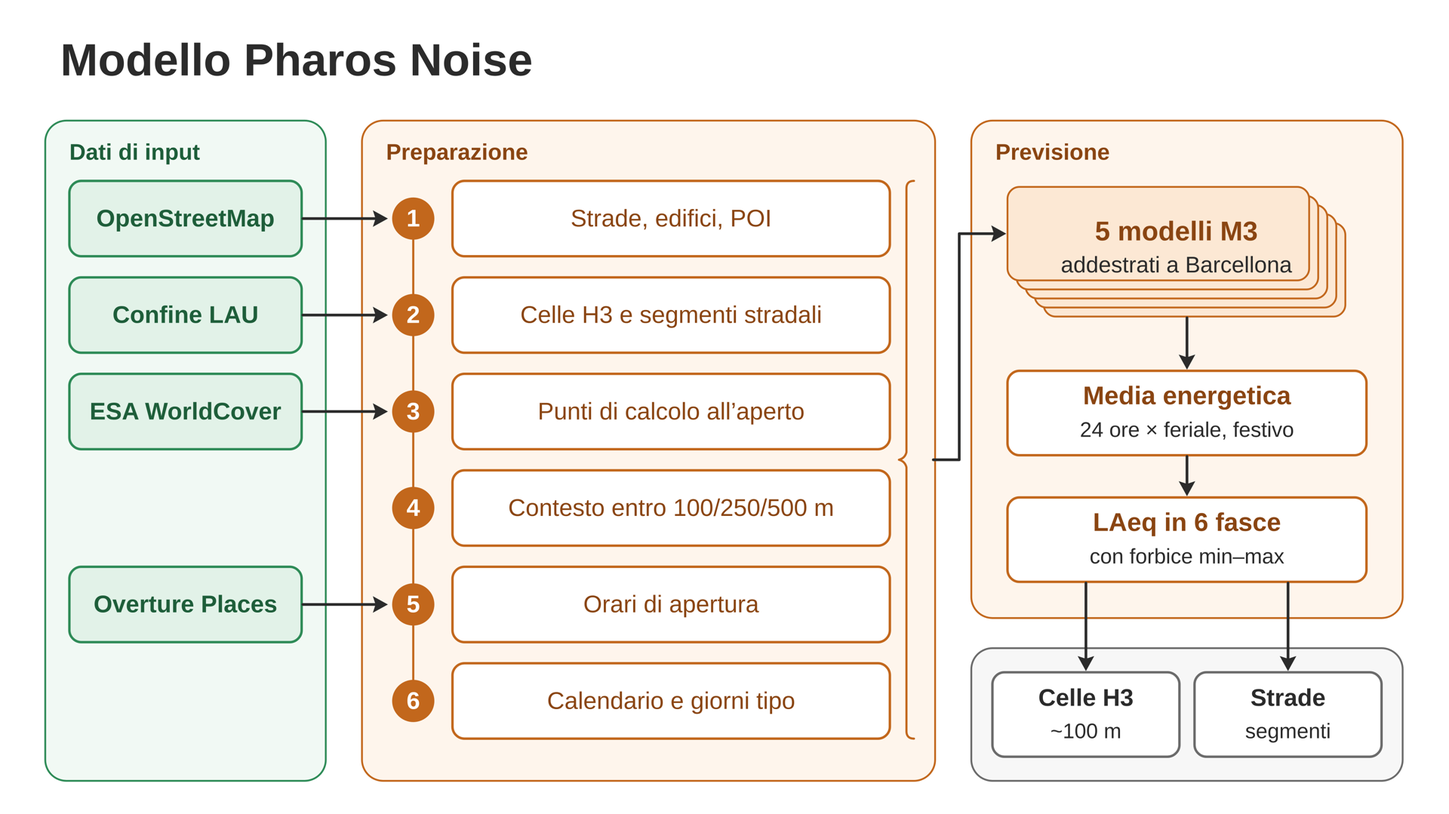
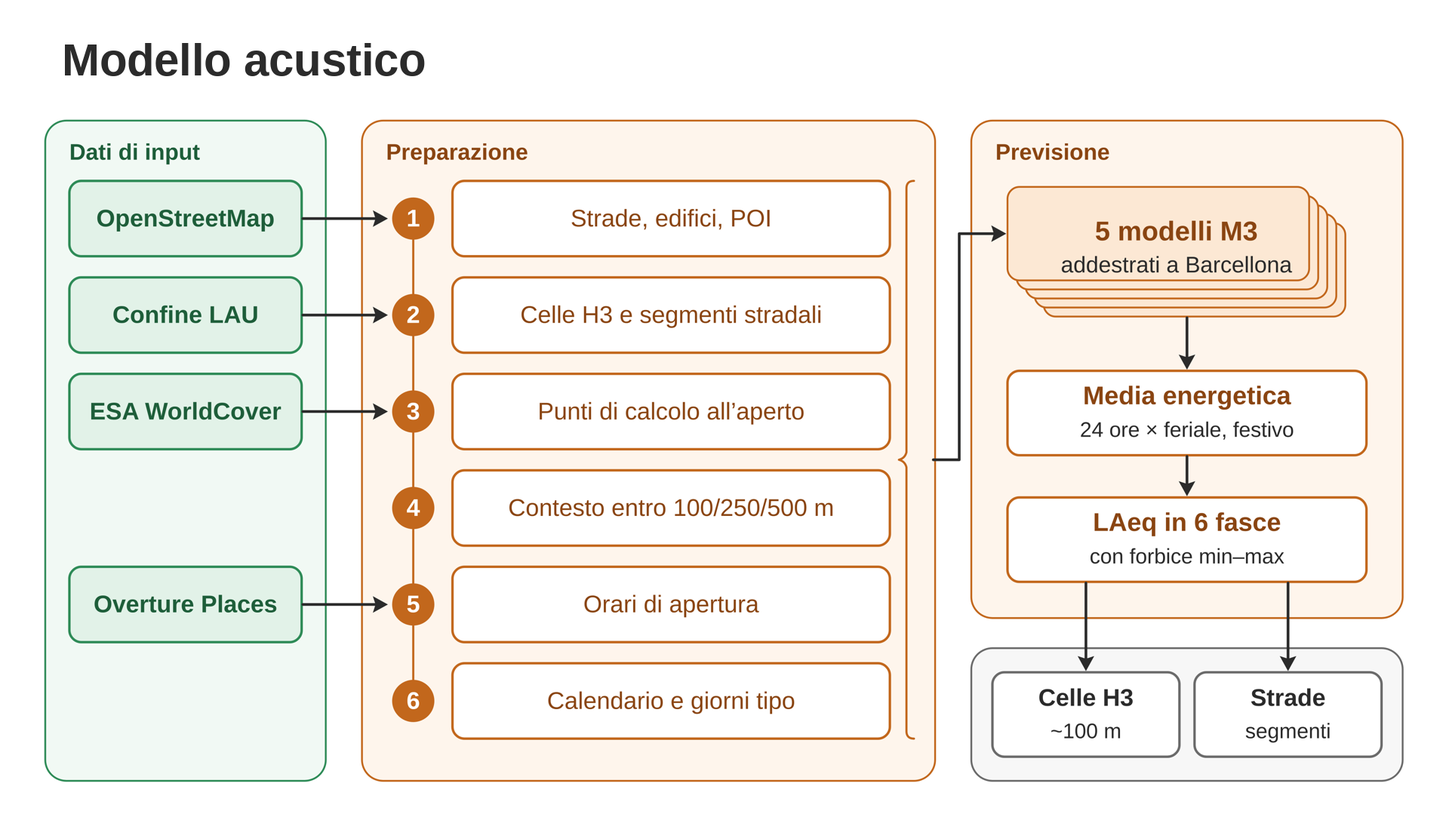
Modello senza nome pubblico proprio: «modello acustico di Sonar»
Nome del manifest «modello acustico di Sonar» / «Sonar acoustic model»;
nei testi «il modello». Piè di pagina delle tavole senza nome del modello,
LEGGIMI, AUTORI, registro e popolazione esposta riformulati. Il testo di
accuratezza della tavola della popolazione esposta si sceglie dall'id del
modello. Etichette aggiornate nelle immagini di docs/img; documenti, note
di rilascio e test allineati; HANDOFF §16.

Changed region(s): [[0.0312, 0.0306, 0.375, 0.0918]]

diff --git a/sonar_app/export/exposure.py b/sonar_app/export/exposure.py
@@ -18,7 +18,7 @@ FIELDS = {'lden': 'lden_ind', 'lnight': 'lnight_ind'}
 RES_FIELD = 'residenti'
 
 TXT = {
-    'it': {'title': '{city} — popolazione esposta al rumore', 'subtitle': 'Residenti per classe di Lden e Lnight · modello {model} · popolazione GHS-POP 2020',
+    'it': {'title': '{city} — popolazione esposta al rumore', 'subtitle': 'Residenti per classe di Lden e Lnight · {model} · popolazione GHS-POP 2020',
            'total': 'Residenti', 'who_lden': 'Lden ≥ 53 dB', 'who_lnight': 'Lnight ≥ 45 dB', 'who': 'soglie OMS 2018',
            'end_lden': 'Lden ≥ 55 dB', 'end_lnight': 'Lnight ≥ 50 dB', 'end': 'soglie di mappatura della Direttiva 2002/49/CE',
            'high_lden': 'Lden ≥ 65 dB', 'high_lnight': 'Lnight ≥ 55 dB', 'high': 'esposizione elevata',
@@ -32,16 +32,16 @@ TXT = {
            'reference': 'Riferimento', 'cell_id': 'Cella H3', 'city_label': 'Città', 'model_label': 'Modello', 'pop_label': 'Popolazione',
            'tile_modal': 'Lden più frequente', 'tile_caption': 'Quote sul totale dei residenti · classi della Direttiva 2002/49/CE, allegato VI',
            'read_title': 'Un modello verificato sulle misure',
-           'validity': ('Pharos Noise stima il livello sonoro ogni 100 m: su 30 postazioni di Barcellona mai usate per l’addestramento '
+           'validity': ('Il modello stima il livello sonoro ogni 100 m: su 30 postazioni di Barcellona mai usate per l’addestramento '
                         'l’errore medio è di 3,6 dB sulle singole ore, con una correlazione di 0,88 con le misure. Tavola, foglio di calcolo '
                         'e layer GIS mostrano quanti residenti vivono in ogni classe di esposizione e dove: la base per decidere dove misurare, '
                         'dove intervenire per primi e quali scenari confrontare.'),
-           'validity_generic': ('Livelli sonori stimati dal modello {model} su celle di circa 100 m. Tavola, foglio di calcolo e layer GIS mostrano '
+           'validity_generic': ('Livelli sonori stimati dal modello «{model}» su celle di circa 100 m. Tavola, foglio di calcolo e layer GIS mostrano '
                                 'quanti residenti vivono in ogni classe di esposizione e dove: la base per decidere dove misurare, dove intervenire '
                                 'per primi e quali scenari confrontare.'),
            'of_residents': 'dei residenti',
            'total_label': 'Residenti nel comune', 'unit': 'residenti'},
-    'en': {'title': '{city} — population exposed to noise', 'subtitle': 'Residents by Lden and Lnight class · {model} model · GHS-POP 2020 population',
+    'en': {'title': '{city} — population exposed to noise', 'subtitle': 'Residents by Lden and Lnight class · {model} · GHS-POP 2020 population',
            'total': 'Residents', 'who_lden': 'Lden ≥ 53 dB', 'who_lnight': 'Lnight ≥ 45 dB', 'who': 'WHO 2018 thresholds',
            'end_lden': 'Lden ≥ 55 dB', 'end_lnight': 'Lnight ≥ 50 dB', 'end': 'Directive 2002/49/EC mapping thresholds',
            'high_lden': 'Lden ≥ 65 dB', 'high_lnight': 'Lnight ≥ 55 dB', 'high': 'high exposure',
@@ -55,11 +55,11 @@ TXT = {
            'reference': 'Reference', 'cell_id': 'H3 cell', 'city_label': 'City', 'model_label': 'Model', 'pop_label': 'Population',
            'tile_modal': 'Most common Lden', 'tile_caption': 'Shares of all residents · classes of Directive 2002/49/EC, Annex VI',
            'read_title': 'A model checked against measurements',
-           'validity': ('Pharos Noise estimates the sound level every 100 m: at 30 Barcelona stations never used in training its mean error '
+           'validity': ('The model estimates the sound level every 100 m: at 30 Barcelona stations never used in training its mean error '
                         'is 3.6 dB on individual hours, with a correlation of 0.88 with the measurements. The sheet, the spreadsheet and the '
                         'GIS layers show how many residents live in each exposure class and where: the basis for deciding where to measure, '
                         'where to act first and which scenarios to compare.'),
-           'validity_generic': ('Sound levels estimated by the {model} model on cells of about 100 m. The sheet, the spreadsheet and the GIS layers '
+           'validity_generic': ('Sound levels estimated by the model “{model}” on cells of about 100 m. The sheet, the spreadsheet and the GIS layers '
                                 'show how many residents live in each exposure class and where: the basis for deciding where to measure, where '
                                 'to act first and which scenarios to compare.'),
            'of_residents': 'of residents',
@@ -249,6 +249,6 @@ def write_xlsx(path: Path, result: dict, city: str, model_name: str, language: s
 
 # ---------------------------------------------------------------- tavola A4
 
-def render_png(path: Path, result: dict, city: str, model_name: str, language: str) -> Path:
+def render_png(path: Path, result: dict, city: str, model_name: str, language: str, model_id: str | None = None) -> Path:
     from .exposure_sheet import render
-    return render(path, result, city, model_name, language)
+    return render(path, result, city, model_name, language, model_id=model_id)

diff --git a/tests/test_exposure.py b/tests/test_exposure.py
@@ -51,14 +51,16 @@ def test_residents_are_conserved_and_written(tmp_path):
             assert sum(v for _, v in day[key]) == pytest.approx(expected, rel=1e-7)
         assert day['lden'][-1][1] > 0                                    # la cella senza stima ha residenti
 
-    xlsx = exposure.write_xlsx(tmp_path / 'esposti.xlsx', result, 'Prova', 'Pharos Noise', 'it')
+    xlsx = exposure.write_xlsx(tmp_path / 'esposti.xlsx', result, 'Prova', 'modello acustico di Sonar', 'it')
     wb = openpyxl.load_workbook(xlsx)
     cells = wb['Celle H3']
     assert cells['A2'].value == frame['unit_id'].iloc[0]                # identificativo H3, non il numero di riga
     assert sum(r[1].value for r in cells.iter_rows(min_row=2)) == pytest.approx(expected, abs=len(frame) * 0.005)
 
     for language in ('it', 'en'):
-        png = exposure.render_png(tmp_path / f'esposti_{language}.png', result, 'Prova', 'Pharos Noise', language)
+        name = {'it': 'modello acustico di Sonar', 'en': 'Sonar acoustic model'}[language]      # come pick(manifest['name'])
+        png = exposure.render_png(tmp_path / f'esposti_{language}.png', result, 'Prova', name, language,
+                                  model_id='m3_barcellona')
         assert png.stat().st_size > 50_000
 
 
@@ -66,3 +68,23 @@ def test_share_formatting():
     assert exposure._pct(0, 100, 'it') == '0,0%'
     assert exposure._pct(1, 10_000, 'it') == '< 0,1%'
     assert exposure._pct(1, 8, 'en') == '12.5%'
+
+
+def test_accuracy_text_depends_on_model_id_not_on_name(tmp_path, monkeypatch):
+    """I numeri di accuratezza compaiono solo per il modello a cui si riferiscono (id del manifest), qualunque sia il nome."""
+    from matplotlib.figure import Figure
+    raster, boundary, frame, _ = _case(tmp_path)
+    result = exposure.compute([('Giorno feriale scolastico', 'feriale', frame)], raster, boundary)
+    seen = []
+    original = Figure.savefig
+    def savefig(self, *args, **kwargs):
+        seen.append([t.get_text() for ax in self.axes for t in ax.texts])
+        return original(self, *args, **kwargs)
+    monkeypatch.setattr(Figure, 'savefig', savefig)
+    exposure.render_png(tmp_path / 'a.png', result, 'Prova', 'modello acustico di Sonar', 'it', model_id='m3_barcellona')
+    exposure.render_png(tmp_path / 'b.png', result, 'Prova', 'modello acustico di Sonar', 'it', model_id='altro')
+    exposure.render_png(tmp_path / 'c.png', result, 'Prova', 'Altro modello', 'en')
+    joined = [' '.join(texts) for texts in seen]
+    assert '3,6 dB' in joined[0] and 'Il modello stima' in joined[0]
+    assert '3,6 dB' not in joined[1] and '3.6 dB' not in joined[2]
+    assert all('Sonar' in texts and not any(t.startswith('Sonar ·') for t in texts) for texts in seen)   # piè di pagina: solo «Sonar»

diff --git a/sonar_app/export/docs.py b/sonar_app/export/docs.py
@@ -24,7 +24,7 @@ def software_license_text() -> str:
 
 README = {
     'it': """Sonar {version} — {city}
-Generato il {when} con il modello «{model}» (versione {model_version}).
+Generato il {when} · {model_title} {model_version}
 
 COSA C'È IN QUESTA CARTELLA
 - {results}/{gpkg}: GeoPackage con lo stile già applicato (QGIS lo carica in automatico)
@@ -49,7 +49,7 @@ ATTRIBUZIONI
 {boundary_attribution}
 """,
     'en': """Sonar {version} — {city}
-Generated on {when} with the model “{model}” (version {model_version}).
+Generated on {when} · {model_title} {model_version}
 
 WHAT IS IN THIS FOLDER
 - {results}/{gpkg}: GeoPackage with the style already applied (QGIS loads it automatically)
@@ -99,13 +99,13 @@ DATA AND RESULTS LICENSES
 AUTHORS_TEXT = {
     'it': """Sonar {version}
 Software: {software_authors}
-Modello «{model}» {model_version}: {model_authors}
+{model_title} {model_version}: {model_authors}
 Spiegazione del modello: {doc_url}
 Repository: {repo_url}
 """,
     'en': """Sonar {version}
 Software: {software_authors}
-Model “{model}” {model_version}: {model_authors}
+{model_title} {model_version}: {model_authors}
 Model explanation: {doc_url}
 Repository: {repo_url}
 """,
@@ -135,6 +135,11 @@ INDICATORS_TEXT = {
 }
 
 
+def _capital(text: str) -> str:
+    """Iniziale maiuscola per l'inizio di riga («modello acustico di Sonar» → «Modello acustico di Sonar»)."""
+    return text[:1].upper() + text[1:]
+
+
 def write_documents(root: Path, language: str, model, city, notes_extra: str = '') -> list[Path]:
     from .health import config as indicators_config
     manifest = model.manifest
@@ -142,7 +147,7 @@ def write_documents(root: Path, language: str, model, city, notes_extra: str = '
     if has_indicators:
         notes_extra = INDICATORS_TEXT[language] + notes_extra
     values = dict(version=__version__, city=city.name, when=datetime.now().strftime('%d/%m/%Y %H:%M' if language == 'it' else '%Y-%m-%d %H:%M'),
-                  model=pick(manifest['name'], language), model_version=model.version, results=folder('results', language),
+                  model=pick(manifest['name'], language), model_title=_capital(pick(manifest['name'], language)), model_version=model.version, results=folder('results', language),
                   gpkg=folder('gpkg', language), gdb=folder('gdb', language), styles=folder('arcgis_styles', language), maps=folder('maps', language),
                   inputs=folder('inputs', language), boundary=folder('boundary', language), lau_year=city.lau_year, lau_id=city.gisco_id or city.lau_id,
                   sources_file=filename('sources', language), license_file=filename('license', language), authors_file=filename('authors', language),

diff --git a/sonar_app/export/maps.py b/sonar_app/export/maps.py
@@ -6,9 +6,9 @@ from pathlib import Path
 
 from ..i18n import pick
 
-FOOTER = {
-    'it': 'Sonar · {model} · © OpenStreetMap contributors · © Overture Maps · ESA WorldCover · confini © EuroGeographics',
-    'en': 'Sonar · {model} · © OpenStreetMap contributors · © Overture Maps · ESA WorldCover · boundaries © EuroGeographics',
+FOOTER = {   # il nome del modello non compare: il modello di Sonar non ha un nome pubblico proprio
+    'it': 'Sonar · © OpenStreetMap contributors · © Overture Maps · ESA WorldCover · confini © EuroGeographics',
+    'en': 'Sonar · © OpenStreetMap contributors · © Overture Maps · ESA WorldCover · boundaries © EuroGeographics',
 }
 MEDIAN = {'it': 'mediana {value:.1f} {unit}', 'en': 'median {value:.1f} {unit}'}
 NO_VALUES = {'it': 'nessuna stima', 'en': 'no estimate'}
@@ -89,7 +89,7 @@ def render(frame, boundary, fields: list[dict], style: dict, title: str, subtitl
     cax = fig.add_axes([0.3, 0.075, 0.4, 0.017])
     fig.colorbar(ScalarMappable(norm=norm, cmap=cmap), cax=cax, orientation='horizontal', extend='both', ticks=style['breaks'])
     cax.set_title(f'{pick(style.get("title"), language)} {unit}'.strip(), fontsize=10)
-    fig.text(0.5, 0.012, FOOTER[language].format(model=model_name), fontsize=7.5, color='#555555', ha='center')
+    fig.text(0.5, 0.012, FOOTER[language], fontsize=7.5, color='#555555', ha='center')
     fig.subplots_adjust(left=0.01, right=0.99, top=0.92, bottom=0.15, wspace=0.03, hspace=0.12)
     path.parent.mkdir(parents=True, exist_ok=True)
     fig.savefig(path, dpi=dpi, facecolor='white')
@@ -187,7 +187,7 @@ def render_indicators(layers: list[tuple[str, object]], boundary, indicator_styl
     fig.suptitle(title, fontsize=15, fontweight='bold', y=0.995)
     note = NOTE[language].format(indicators=names, scale=SCALE_NOTE['city' if shared is not None else indicator_styles[0].get('scale', 'city')][language])
     fig.text(0.5, 0.03, textwrap.fill(note, width=95 * cols if cols > 1 else 120), fontsize=8, color='#444444', ha='center', va='bottom')
-    fig.text(0.5, 0.01, FOOTER[language].format(model=model_name), fontsize=7.5, color='#555555', ha='center')
+    fig.text(0.5, 0.01, FOOTER[language], fontsize=7.5, color='#555555', ha='center')
     fig.subplots_adjust(left=0.01, right=0.99, top=0.92, bottom=0.16, wspace=0.03, hspace=0.18)
     path.parent.mkdir(parents=True, exist_ok=True)
     fig.savefig(path, dpi=dpi, facecolor='white')

diff --git a/sonar_app/export/exposure_sheet.py b/sonar_app/export/exposure_sheet.py
@@ -19,6 +19,7 @@ ACCENT, ACCENT_SOFT = '#1F4E79', '#dbe6f1'
 # classi: verde sotto la prima classe della Direttiva, poi dal giallo al bordeaux; grigio per «senza stima»
 CLASS_COLORS = ['#93c9ad', '#fee08b', '#fdae61', '#f46d43', '#d73027', '#a50026']
 NONE_COLOR = '#c4c7cc'
+VALIDATED_MODELS = {'m3_barcellona'}   # id dei modelli a cui si riferiscono i numeri di accuratezza del testo 'validity'
 ROW = 6.2           # altezza di riga delle tabelle (mm)
 BAR_W = 66.0        # lunghezza della barra più lunga (mm)
 
@@ -58,7 +59,7 @@ def _threshold(day, key, value):
     return 0.0
 
 
-def render(path: Path, result: dict, city: str, model_name: str, language: str, dpi: int = 220) -> Path:
+def render(path: Path, result: dict, city: str, model_name: str, language: str, dpi: int = 220, model_id: str | None = None) -> Path:
     import matplotlib
     matplotlib.use('Agg')
     import matplotlib.pyplot as plt
@@ -174,8 +175,8 @@ def render(path: Path, result: dict, city: str, model_name: str, language: str, 
     # ---------------------------------------------------------------- come leggere
     note_lines = textwrap.wrap(T['note'], 122)
     foot_top = H - 14.0 - 4.0 * len(note_lines) - 6.0            # le note stanno sopra le fonti
-    # numeri di accuratezza solo per il modello a cui si riferiscono (README, docs/MODEL.md)
-    claim = T['validity'] if 'pharos' in model_name.lower() else T['validity_generic'].format(model=model_name)
+    # numeri di accuratezza solo per il modello a cui si riferiscono (README, docs/MODEL.md), riconosciuto dall'id del manifest
+    claim = T['validity'] if model_id in VALIDATED_MODELS else T['validity_generic'].format(model=model_name)
     lines = textwrap.wrap(claim, 124)
     bh = 9.0 + 4.3 * len(lines)
     by = max(y + 8.0, min(foot_top - bh - 7.0, y + 14.0))
@@ -191,7 +192,7 @@ def render(path: Path, result: dict, city: str, model_name: str, language: str, 
     for k, line in enumerate(note_lines):
         text(X0, ny + 4.0 * k, line, 7.2, color=MID)
     text(X0, H - 12, T['sources'], 6.8, color=MID)
-    text(X1, H - 12, f'Sonar · {model_name}', 7, 'bold', color=ACCENT, ha='right')
+    text(X1, H - 12, 'Sonar', 7, 'bold', color=ACCENT, ha='right')
     fig.savefig(path, dpi=dpi)
     plt.close(fig)
     return path

diff --git a/sonar_app/pipeline.py b/sonar_app/pipeline.py
@@ -66,7 +66,7 @@ def run_job(spec: dict, emit, cancelled=lambda: False) -> Path:
     root = export.make_root(Path(spec['out_dir']), city.name)
     report.open_log(root / filename('log', language))
     emit({'event': 'folder', 'path': str(root)})
-    report.log(f'Sonar {__version__} · {city.name} ({city.country_code}, LAU {city.gisco_id}) · {pick(model.manifest["name"], language)} {model.version} ({model.id})')
+    report.log(f'Sonar {__version__} · {city.name} ({city.country_code}, LAU {city.gisco_id}) · {"modello" if language == "it" else "model"} {model.version} ({model.id})')
     inputs_root = root / folder('inputs', language)
     slug = export.safe_name(city.name)
     boundary = city.write_boundary(inputs_root / folder('boundary', language) / f'{slug}_{filename("boundary", language)}.gpkg')
@@ -113,7 +113,7 @@ def run_job(spec: dict, emit, cancelled=lambda: False) -> Path:
     ctx = ModelContext(city=city.to_json() | {'geometry': None}, boundary=boundary, inputs=inputs, work_dir=work, output_dir=work / 'outputs',
                        language=language, model_dir=model.folder, progress=lambda f, msg=None: report.phase('model', f, msg or ''),
                        log=report.log, cancelled=cancelled)
-    report.phase('model', 0.0, pick(model.manifest['name'], language))
+    report.phase('model', 0.0)
     result = model.run(ctx)
     # 4. esportazione
     written = export.export_results(model, result['outputs'], root, city, boundary, language,

diff --git a/models/m3_barcellona/adapter.py b/models/m3_barcellona/adapter.py
@@ -1,4 +1,4 @@
-"""Adattatore del modello Pharos Noise (identificativo interno m3_barcellona) al contratto sonar-model/1.
+"""Adattatore del modello acustico di Sonar (identificativo interno m3_barcellona) al contratto sonar-model/1.
 
 Chiama la pipeline del progetto del modello (pacchetto `sonar` in <codice>/src) con i dati già
 scaricati da Sonar: acquire da file locali (nessun download), prepare, predict. Il codice del
@@ -42,7 +42,7 @@ def code_root(model_dir: Path) -> Path:
     for candidate in ([Path(env)] if env else []) + [model_dir / 'code']:
         if (candidate / 'src' / 'sonar' / 'cli.py').exists():
             return candidate.resolve()
-    raise FileNotFoundError('Codice del modello Pharos Noise non trovato: impostare SONAR_MODEL_CODE oppure includere la cartella code/')
+    raise FileNotFoundError('Codice del modello acustico non trovato: impostare SONAR_MODEL_CODE oppure includere la cartella code/')
 
 
 def _accelerate_static_features(code_paths=None):

diff --git a/sonar_app/export/__init__.py b/sonar_app/export/__init__.py
@@ -350,7 +350,7 @@ def export_results(model, outputs: dict, root: Path, city, boundary_path: Path, 
             exp_dir.mkdir(parents=True, exist_ok=True)
             stem = f'{city_part}_{"popolazione_esposta" if language == "it" else "population_exposure"}'
             exposure.write_xlsx(exp_dir / f'{stem}.xlsx', exposure_result, city.name, model_name, language)
-            exposure.render_png(exp_dir / f'{stem}.png', exposure_result, city.name, model_name, language)
+            exposure.render_png(exp_dir / f'{stem}.png', exposure_result, city.name, model_name, language, model_id=model.id)
             written['exposure'] = [f'{stem}.xlsx', f'{stem}.png']
             written['residents_total'] = round(exposure_result['total'])
         except Exception as exc:

diff --git a/sonar_app/fastfeatures.py b/sonar_app/fastfeatures.py
@@ -1,4 +1,4 @@
-"""Feature statiche del modello Pharos Noise calcolate più in fretta, con gli stessi risultati.
+"""Feature statiche del modello acustico calcolate più in fretta, con gli stessi risultati.
 
 Il modello (`src/prediction_features.py`, `src/sonar/prepare.py`) calcola per ogni ricevitore lunghezza delle
 strade, copertura degli edifici e conteggi dei POI entro 100/250/500 m, con buffer poligonali di 64 lati e

diff --git a/tests/conftest.py b/tests/conftest.py
@@ -25,7 +25,7 @@ def square_city():
 
 @pytest.fixture
 def model_output(tmp_path):
-    """GeoPackage come quello del modello Pharos Noise: layer feriale/festivo con i campi laeq_* (poligoni)."""
+    """GeoPackage come quello del modello acustico di Sonar: layer feriale/festivo con i campi laeq_* (poligoni)."""
     import geopandas as gpd
     import numpy as np
     from shapely.geometry import box

diff --git a/README.md b/README.md
@@ -10,9 +10,9 @@
 </h3>
 <p align="center"><code>Sonar-Setup.exe</code> · Windows 10/11 64 bit · circa 170 MB</p>
 
-**Sonar** calcola la mappa del rumore urbano di una città europea a partire dal suo nome. Si scrive la città, si preme *Avvia*: Sonar trova il confine comunale, scarica i dati aperti che servono, applica il modello acustico **Pharos Noise** e consegna una cartella pronta per QGIS e ArcGIS, con il livello sonoro stimato ogni 100 metri e su ogni tratto di strada, ora per ora, in un giorno feriale e in un festivo. Tutto gira sul proprio PC, senza account e senza dati da preparare: per una città come Parigi bastano circa dieci minuti.
+**Sonar** calcola la mappa del rumore urbano di una città europea a partire dal suo nome. Si scrive la città, si preme *Avvia*: Sonar trova il confine comunale, scarica i dati aperti che servono, applica il proprio modello acustico e consegna una cartella pronta per QGIS e ArcGIS, con il livello sonoro stimato ogni 100 metri e su ogni tratto di strada, ora per ora, in un giorno feriale e in un festivo. Tutto gira sul proprio PC, senza account e senza dati da preparare: per una città come Parigi bastano circa dieci minuti.
 
-*Sonar maps urban noise for any European city from its name. It finds the municipal boundary, downloads open data, runs the Pharos Noise model and delivers a GIS-ready folder with estimated sound levels every 100 m and on every road segment, for a weekday and a holiday, in six time bands. It runs on your own PC; Paris takes about ten minutes.*
+*Sonar maps urban noise for any European city from its name. It finds the municipal boundary, downloads open data, runs its acoustic model and delivers a GIS-ready folder with estimated sound levels every 100 m and on every road segment, for a weekday and a holiday, in six time bands. It runs on your own PC; Paris takes about ten minutes.*
 
 ## Perché
 
@@ -55,9 +55,9 @@ Sonar è un'applicazione Windows scritta in Python con interfaccia Qt.
 
 ![Software Sonar](docs/img/software.png)
 
-## Il modello Pharos Noise
+## Il modello
 
-Pharos Noise è un modello di **machine learning** che impara il legame fra la forma della città e il rumore misurato. È addestrato sulla rete di sensori acustici della città di Barcellona (oltre 350.000 ore di misure orarie) con il metodo *gradient boosting*, che cerca da solo la combinazione di variabili con l'errore più piccolo fra livello misurato e livello stimato.
+Il modello di Sonar è un modello di **machine learning** che impara il legame fra la forma della città e il rumore misurato. È addestrato sulla rete di sensori acustici della città di Barcellona (oltre 350.000 ore di misure orarie) con il metodo *gradient boosting*, che cerca da solo la combinazione di variabili con l'errore più piccolo fra livello misurato e livello stimato.
 
 **Come stima il rumore in una città nuova**
 1. Legge da OpenStreetMap strade, edifici e punti di interesse.
@@ -71,11 +71,11 @@ Poi **cinque modelli** addestrati su cinque suddivisioni diverse dei dati di Bar
 
 **Quanto è accurato.** Sulle 30 postazioni di Barcellona mai usate per l'addestramento la stima oraria ha un errore medio di **3,6 dB** e una correlazione di **0,88** con le misure; a livello di fascia oraria l'errore medio è di **3,1 dB**, e la differenza fra giorno e notte è riprodotta quasi esattamente (6,85 dB stimati contro 6,83 misurati). Sono valori in linea con gli studi recenti più vicini, che riportano errori quadratici medi fra 4,4 e 4,9 dB con dati e protocolli diversi ([Helbich et al. 2025](https://doi.org/10.1016/j.scs.2025.106169), [Haselhoff et al. 2026](https://www.nature.com/articles/s41370-026-00855-w)).
 
-**Verifica in una città nuova.** A Dublino (16 postazioni della rete Sonitus, maggio 2026), con un protocollo fissato e registrato prima di vedere i dati e senza alcuna taratura locale, Pharos Noise riconosce quali luoghi sono più rumorosi e quali più quieti: la correlazione di rango fra stime e misure è **0,82** (intervallo al 90%: 0,58–0,92) e il profilo della giornata è riprodotto con correlazione **0,88**. Il modello batte nettamente un riferimento basato solo sull'ora del giorno (errore orario medio 6,9 contro 10,5 dB). I livelli assoluti risultano in media più alti di 5,4 dB: con le misure di cinque sensori locali lo scarto medio si annulla e l'errore orario scende a 5,8 dB. Secondo il protocollo il risultato è *parziale*: superati i criteri sull'ordinamento dei luoghi e sul confronto con il riferimento, non quelli sull'errore orario entro 6 dB e sullo scarto medio entro 3 dB senza taratura.
+**Verifica in una città nuova.** A Dublino (16 postazioni della rete Sonitus, maggio 2026), con un protocollo fissato e registrato prima di vedere i dati e senza alcuna taratura locale, il modello riconosce quali luoghi sono più rumorosi e quali più quieti: la correlazione di rango fra stime e misure è **0,82** (intervallo al 90%: 0,58–0,92) e il profilo della giornata è riprodotto con correlazione **0,88**. Il modello batte nettamente un riferimento basato solo sull'ora del giorno (errore orario medio 6,9 contro 10,5 dB). I livelli assoluti risultano in media più alti di 5,4 dB: con le misure di cinque sensori locali lo scarto medio si annulla e l'errore orario scende a 5,8 dB. Secondo il protocollo il risultato è *parziale*: superati i criteri sull'ordinamento dei luoghi e sul confronto con il riferimento, non quelli sull'errore orario entro 6 dB e sullo scarto medio entro 3 dB senza taratura.
 
 Spiegazione completa: [docs/MODEL.md](docs/MODEL.md).
 
-![Modello Pharos Noise](docs/img/modello.png)
+![Il modello acustico di Sonar](docs/img/modello.png)
 
 ## Fonti e licenze dei dati
 
@@ -102,7 +102,7 @@ Ivan Murano e Laura Ripoli. Software e modello sono distribuiti secondo [LICENSE
 ```
 py -3.12 -m venv .venv
 .venv\Scripts\python -m pip install -r requirements-build.txt
-set SONAR_MODEL_CODE=D:\noise_pollution          rem codice del modello Pharos Noise
+set SONAR_MODEL_CODE=D:\noise_pollution          rem codice del modello acustico
 .venv\Scripts\python -m sonar_app                rem interfaccia
 .venv\Scripts\python -m sonar_app --selftest     rem controllo dell'installazione
 .venv\Scripts\python -m pytest tests

diff --git a/docs/MODEL.md b/docs/MODEL.md
@@ -1,10 +1,10 @@
-# Pharos Noise, il modello acustico di Sonar
+# Il modello acustico di Sonar
 
-*English summary: Pharos Noise is a machine-learning model (gradient boosting) trained on the Barcelona acoustic sensor network. It describes every outdoor calculation point by its urban context within 100, 250 and 500 m (roads, buildings, points of interest, businesses open at that hour) plus the hour, day type and school calendar, and estimates hourly LAeq for a school weekday and a Sunday/holiday. Five models are combined by energy averaging into six time bands. At 30 Barcelona stations never used for training the hourly mean absolute error is 3.6 dB (correlation 0.88); at time-band level it is 3.1 dB.*
+*English summary: the Sonar acoustic model is a machine-learning model (gradient boosting) trained on the Barcelona acoustic sensor network. It describes every outdoor calculation point by its urban context within 100, 250 and 500 m (roads, buildings, points of interest, businesses open at that hour) plus the hour, day type and school calendar, and estimates hourly LAeq for a school weekday and a Sunday/holiday. Five models are combined by energy averaging into six time bands. At 30 Barcelona stations never used for training the hourly mean absolute error is 3.6 dB (correlation 0.88); at time-band level it is 3.1 dB.*
 
 ## Idea
 
-Il rumore urbano dipende soprattutto da quanto traffico e quante attività ci sono attorno a un punto, e da come cambiano durante la giornata. Pharos Noise impara questo legame da una città dove il rumore è misurato in continuo, Barcellona, e lo applica a qualsiasi città europea con dati aperti disponibili ovunque: OpenStreetMap, Overture Maps Places e il calendario del paese.
+Il rumore urbano dipende soprattutto da quanto traffico e quante attività ci sono attorno a un punto, e da come cambiano durante la giornata. Il modello impara questo legame da una città dove il rumore è misurato in continuo, Barcellona, e lo applica a qualsiasi città europea con dati aperti disponibili ovunque: OpenStreetMap, Overture Maps Places e il calendario del paese.
 
 ## Dati di addestramento
 
@@ -44,7 +44,7 @@ Gli orari di apertura vengono dagli orari dichiarati in OpenStreetMap quando aff
 
 Sulle 30 postazioni di Barcellona mai usate in nessuno dei cinque addestramenti (maggio 2026):
 
-| Misura | Pharos Noise |
+| Misura | Modello |
 |---|---|
 | Errore medio assoluto orario | 3,6 dB |
 | Correlazione con le misure | 0,88 |
@@ -58,7 +58,7 @@ Febbraio e luglio danno risultati simili (3,7 dB). Gli studi recenti più vicini
 
 Il trasferimento a una città mai vista è stato verificato a Dublino con la rete di sensori Sonitus, secondo un protocollo fissato e registrato (con impronta SHA-256) prima di vedere i dati, con un'unica esecuzione e senza alcun adattamento del modello. Periodo principale maggio 2026, 16 postazioni, 11.869 ore.
 
-| Misura | Pharos Noise | Riferimento solo ora del giorno |
+| Misura | Modello | Riferimento solo ora del giorno |
 |---|---|---|
 | Correlazione di rango fra luoghi (Spearman) | 0,82 (IC 90% 0,58–0,92) | — |
 | Errore medio sui livelli dei luoghi, al netto dello scarto di città | 4,2 dB | 5,5 dB |
